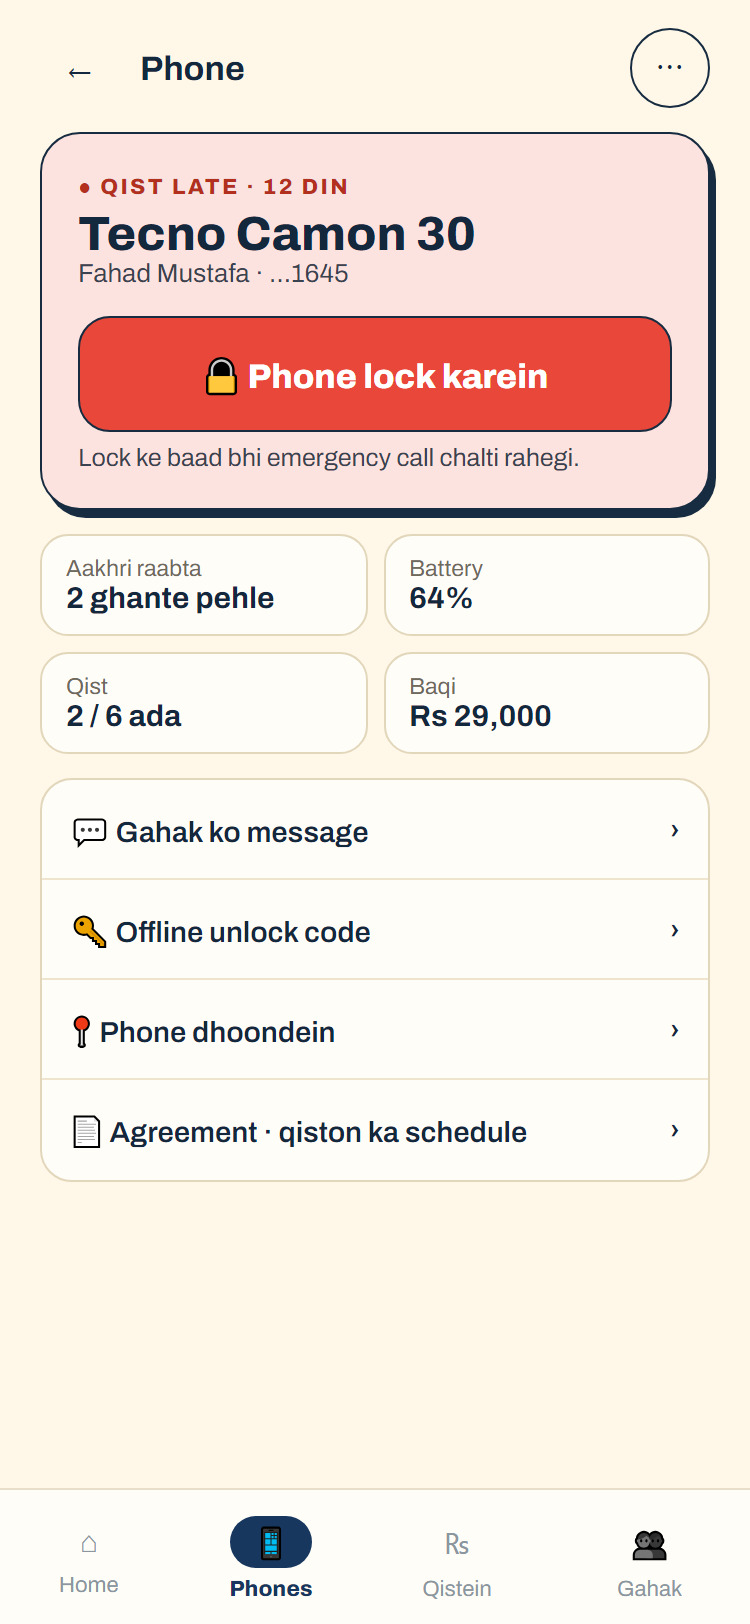
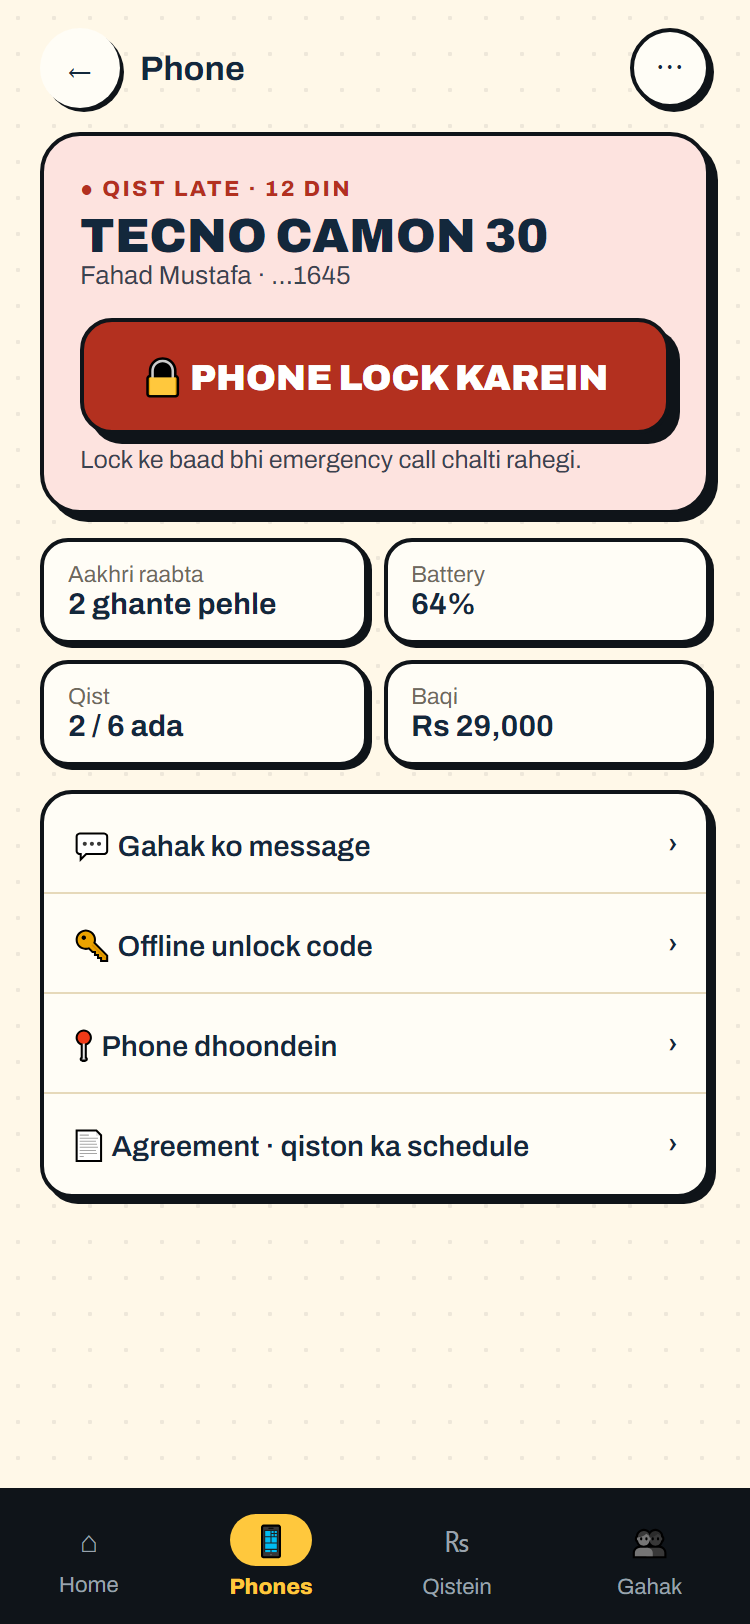
docs: restyle redesign mockups to match almassdm.pro brand; home layout A/B/C pending

diff --git a/docs/design/shop-app-redesign/after/mockups.html b/docs/design/shop-app-redesign/after/mockups.html
@@ -90,6 +90,48 @@ h1{font-size:26px;letter-spacing:-.8px;font-weight:800}
 [dir=rtl] .name,[dir=rtl] .cta,[dir=rtl] .cta2{font-size:17px}
 [dir=rtl] .meta,[dir=rtl] .sub{font-size:14px}
 [dir=rtl] .lbl{letter-spacing:0;font-size:13px}
+/* === almassdm.pro brand pass === */
+.phone{background:#FFF8E8 radial-gradient(rgba(15,20,25,.07) 1px,transparent 1.2px) 0 0/18px 18px}
+.brand{font-weight:900;text-transform:uppercase}
+.ic{border:2.5px solid #0F1419;box-shadow:2px 2px 0 #0F1419;background:#FFFDF6}
+h1,.sec h2,.shead b{font-weight:900;text-transform:uppercase;letter-spacing:-.3px}
+.sec h2{font-size:17px}
+.money{background:#12305F;color:#fff;border:2.5px solid #0F1419;box-shadow:4px 4px 0 #0F1419;border-radius:22px}
+.money .lbl{color:#FFC83D}.money .sub,.money .row2 span{color:#c9d6ea}.money .amt{color:#fff;font-weight:900}
+.money .row2{border-top:1.5px dashed #ffffff40}.money .row2 b{color:#7BE0C2}
+.cta{background:#FFC83D;color:#0F1419;border:2.5px solid #0F1419;box-shadow:5px 5px 0 #0F1419;border-radius:16px;font-weight:900;text-transform:uppercase;font-size:18px}
+.cta2{background:#FFFDF6;color:#0F1419;border:2.5px solid #0F1419;box-shadow:3px 3px 0 #0F1419;border-radius:14px;font-weight:800}
+.card{background:#FFFDF6;border:2.5px solid #0F1419;box-shadow:3px 3px 0 #0F1419;border-radius:16px;margin-bottom:12px}
+.av{background:#DDF6EC;border:2px solid #0F1419}
+.mini{border:2px solid #0F1419;box-shadow:2px 2px 0 #0F1419;border-radius:11px;background:#FFFDF6}
+.mini.navy{background:#0F1419;color:#fff}
+.mini.wa{background:#25D366;color:#0F1419}
+.pill{border:1.5px solid currentColor}
+.nav{background:#0F1419;border-top:0;color:#9aa3ad}
+.nav .on{color:#FFC83D}.nav .on i{background:#FFC83D;color:#0F1419}
+.shead{background:#FFFDF6;border-bottom:2.5px solid #0F1419}
+.steps div:before{height:8px;border:1.5px solid #0F1419;background:#FFFDF6}
+.steps .done:before{background:#14946F}.steps .cur:before{background:#FFC83D}
+.in{border:2.5px solid #0F1419;background:#FFFDF6;box-shadow:2px 2px 0 #0F1419}
+.chip{border:2.5px solid #0F1419;background:#FFFDF6;box-shadow:2px 2px 0 #0F1419}
+.chip.sel{background:#FFC83D;box-shadow:3px 3px 0 #0F1419}
+.sticky{background:#12305F;color:#fff;border-top:2.5px solid #0F1419}
+.sticky span{color:#c9d6ea}.sticky .sum b{color:#FFC83D}
+.bar .back{border:2.5px solid #0F1419;background:#FFFDF6;color:#0F1419}
+.bar .next{background:#FFC83D;color:#0F1419;border:2.5px solid #0F1419;box-shadow:3px 3px 0 #0F1419;font-weight:900;text-transform:uppercase}
+.hero{background:#FFFDF6;border:2.5px solid #0F1419;box-shadow:4px 4px 0 #0F1419}
+.tl div{border:1.5px solid #0F1419}
+.tl .p{background:#DDF6EC;color:#0B7A5E}.tl .l{background:#FDE3DF;color:#B3301F}
+.act{border:2.5px solid #0F1419;box-shadow:3px 3px 0 #0F1419;background:#FFFDF6}
+.act.wa{background:#25D366}
+.sheet{background:#FFFDF6;border-top:2.5px solid #0F1419}
+.status{border:2.5px solid #0F1419;box-shadow:4px 4px 0 #0F1419;background:#FDE3DF}
+.status .big{font-weight:900;text-transform:uppercase}
+.cta.danger{background:#B3301F;color:#fff}
+.tile{border:2.5px solid #0F1419;box-shadow:2px 2px 0 #0F1419;background:#FFFDF6}
+.list{border:2.5px solid #0F1419;box-shadow:3px 3px 0 #0F1419;background:#FFFDF6}
+.list div{border-bottom:1.5px solid #E6D9BA}
+[dir=rtl] .cta,[dir=rtl] h1,[dir=rtl] .sec h2{text-transform:none}
 </style></head><body>
 
 <!-- HOME (Roman Urdu) -->
@@ -107,7 +149,7 @@ h1{font-size:26px;letter-spacing:-.8px;font-weight:800}
   <div class="grid2"><div class="cta2">₨ Qist jama</div><div class="cta2">🔍 Gahak talash</div></div>
   <div class="sec"><h2>Aaj ke kaam</h2><a>Sab dekhein →</a></div>
   <div class="card"><div class="av">FM</div><div class="grow"><div class="name">Fahad Mustafa</div><div class="meta">Rs 7,250 · <span class="pill late">12 din late</span></div></div><div class="mini navy">Jama</div></div>
-  <div class="card"><div class="av">RK</div><div class="grow"><div class="name">Rashid Khan</div><div class="meta">Rs 5,750 · <span class="pill due">Aaj</span></div></div><div class="mini">📞</div></div>
+  <div class="card"><div class="av">RK</div><div class="grow"><div class="name">Rashid Khan</div><div class="meta">Rs 5,750 · <span class="pill due">Aaj</span></div></div><div class="mini wa">💬</div></div>
  </div>
  <div class="nav"><div class="on"><i>⌂</i>Home</div><div><i>📱</i>Phones</div><div><i>₨</i>Qistein</div><div><i>👥</i>Gahak</div></div>
 </div>
@@ -127,7 +169,7 @@ h1{font-size:26px;letter-spacing:-.8px;font-weight:800}
   <div class="grid2"><div class="cta2">₨ قسط جمع</div><div class="cta2">🔍 گاہک تلاش</div></div>
   <div class="sec"><h2>آج کے کام</h2><a>سب دیکھیں ←</a></div>
   <div class="card"><div class="av">FM</div><div class="grow"><div class="name">Fahad Mustafa</div><div class="meta"><span dir="ltr">Rs 7,250</span> · <span class="pill late">12 دن لیٹ</span></div></div><div class="mini navy">جمع</div></div>
-  <div class="card"><div class="av">RK</div><div class="grow"><div class="name">Rashid Khan</div><div class="meta"><span dir="ltr">Rs 5,750</span> · <span class="pill due">آج</span></div></div><div class="mini">📞</div></div>
+  <div class="card"><div class="av">RK</div><div class="grow"><div class="name">Rashid Khan</div><div class="meta"><span dir="ltr">Rs 5,750</span> · <span class="pill due">آج</span></div></div><div class="mini wa">💬</div></div>
  </div>
  <div class="nav"><div class="on"><i>⌂</i>ہوم</div><div><i>📱</i>فون</div><div><i>₨</i>قسطیں</div><div><i>👥</i>گاہک</div></div>
 </div>
@@ -159,7 +201,7 @@ h1{font-size:26px;letter-spacing:-.8px;font-weight:800}
   <div class="hero"><div class="lbl" style="color:#b3301f">Baqi raqam · 4 qistein late</div><div class="amt">Rs 34,000</div><div class="sub" style="color:#6f6a5c">Agli qist Rs 8,500 · 20 Jul (late)</div>
    <div class="tl"><div class="p">May</div><div class="p">Jun</div><div class="l">Jul</div><div class="l">Aug</div><div class="l">Sep</div><div class="l">Oct</div></div>
    <div class="cta" style="margin-top:14px">₨ Qist jama karein</div></div>
-  <div class="acts"><div class="act"><i>💬</i>WhatsApp</div><div class="act"><i>📞</i>Call</div><div class="act"><i>🔒</i>Phone</div></div>
+  <div class="acts"><div class="act wa"><i>💬</i>WhatsApp</div><div class="act"><i>📞</i>Call</div><div class="act"><i>🔒</i>Phone</div></div>
  </div>
  <div class="dim"></div>
  <div class="sheet"><div class="grab"></div>

diff --git a/docs/design/shop-app-redesign/README.md b/docs/design/shop-app-redesign/README.md
@@ -46,7 +46,7 @@ Tareekh: 23 Nov 2026 · Phone size 375×812 · Shop app ka user agent (`AlmasSDM
 
 ## 2. Direction
 
-Brand wahi: cream paper `#FFF8E8`, ink borders, navy `#17375E`, sun yellow `#FFD05B`, mint, hard offset shadow. Koi naya rang nahin. Mockups mein emoji sirf jagah rakhne ke liye hain; asal mein lucide icons aur `android/shop/src/main/assets/home-icons` wali 3D art rahegi.
+Brand **bilkul almassdm.pro jaisa** (owner ki shart, har screen par): cream `#FFF8E8` + halke dots, cards `#FFFDF6`, 2–2.5px ink `#0F1419` border aur hard offset shadow (3–6px, blur nahin), Archivo 800/900 uppercase headings, sun-yellow `#FFC83D` main button (site ka `btn-sun`), navy `#12305F` paise wala band, emerald/mint paise ke liye, critical `#B3301F` on `#FDE3DF` late/lock ke liye, WhatsApp-green button (`btn-wa`), kala ink bottom nav. Yeh sab tokens pehle se `client/tailwind.config.js` mein hain; koi naya rang nahin. Mockups mein emoji sirf jagah rakhne ke liye hain; asal mein lucide icons aur `android/shop/src/main/assets/home-icons` wali 3D art rahegi.
 
 | Before | After |
 |---|---|
@@ -56,7 +56,7 @@ Brand wahi: cream paper `#FFF8E8`, ink borders, navy `#17375E`, sun yellow `#FFD
 | ![](before/roman-ur-device.png) | ![](after/after-device.png) |
 | ![](before/ur-home.png) | ![](after/after-home-ur.png) |
 
-**Home** — Yellow card "Aaj wasool karna hai" (aaj + late), neeche ek bara "Nayi sale" button, do buttons "Qist jama" aur "Gahak talash", phir "Aaj ke kaam": late/aaj wale gahak, har ek par seedha "Jama" ya Call.
+**Home** — Owner ko parent session mein teen home layouts dikhaye gaye: A "Aaj ka kaam", B "Bare buttons", C "Khatra pehle" — abhi faisla baqi hai. Upar ka mockup **A** hai (mera mashwara: counter par sab se zaroori sawal "aaj kis se paise lene hain" seedha jawab deta hai). B ya C chunein to wahi brand style us layout par lagega. Yellow card "Aaj wasool karna hai" (aaj + late), neeche ek bara "Nayi sale" button, do buttons "Qist jama" aur "Gahak talash", phir "Aaj ke kaam": late/aaj wale gahak, har ek par seedha "Jama" ya Call.
 
 **Nayi sale** — 4 qadam, har qadam alag screen: Gahak → Phone → Plan → Dastakhat. Upar progress bar, neeche sticky bar jis mein mahana qist live dikhe aur "Agla" button. Qeemat sirf ek dafa (Phone step mein). Saare chips 48px. Adhura kaam khud save (button ki zaroorat nahin, ✕ dabane par poochhe). Logic/API wahi rahega — sirf layout.
 
@@ -80,6 +80,7 @@ Har PR mein 375px screenshots teeno zabanon mein, `npm test` green. Android shel
 
 ## Aap se faisla chahiye
 
-- Kya yeh direction theek hai? (Haan / tabdeeli batayein)
+- Home ke liye A, B ya C? (mashwara: A)
+- Baqi screens (Nayi sale, Gahak/Qist jama, Device) ki direction theek hai?
 - Bottom nav: "Payments" ki jagah "Qistein" — theek?
 - Nayi sale: 4 alag screens (recommended) ya ek hi page lekin upar progress + sticky button?
